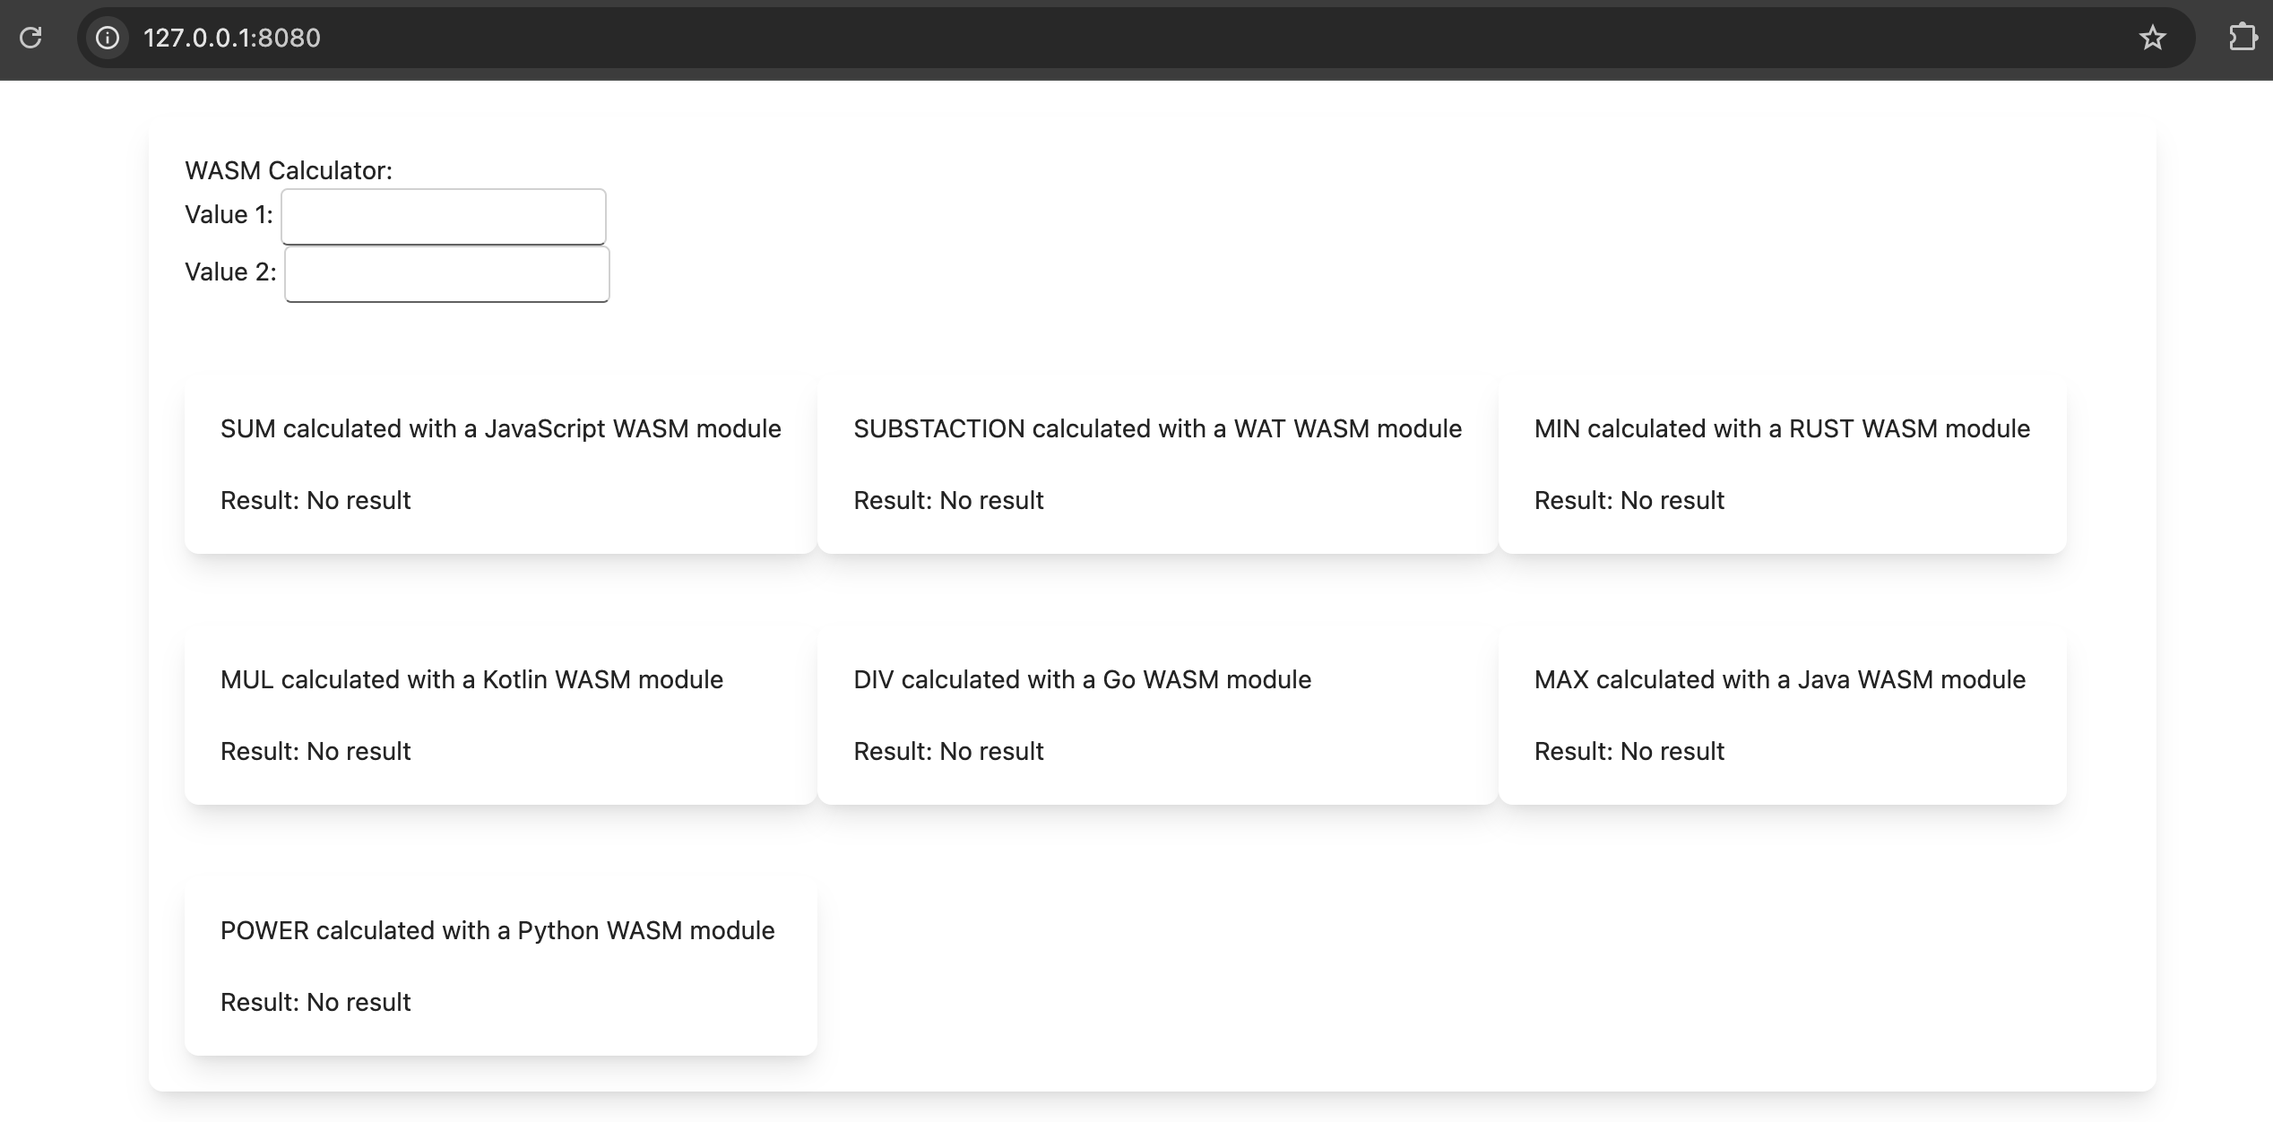
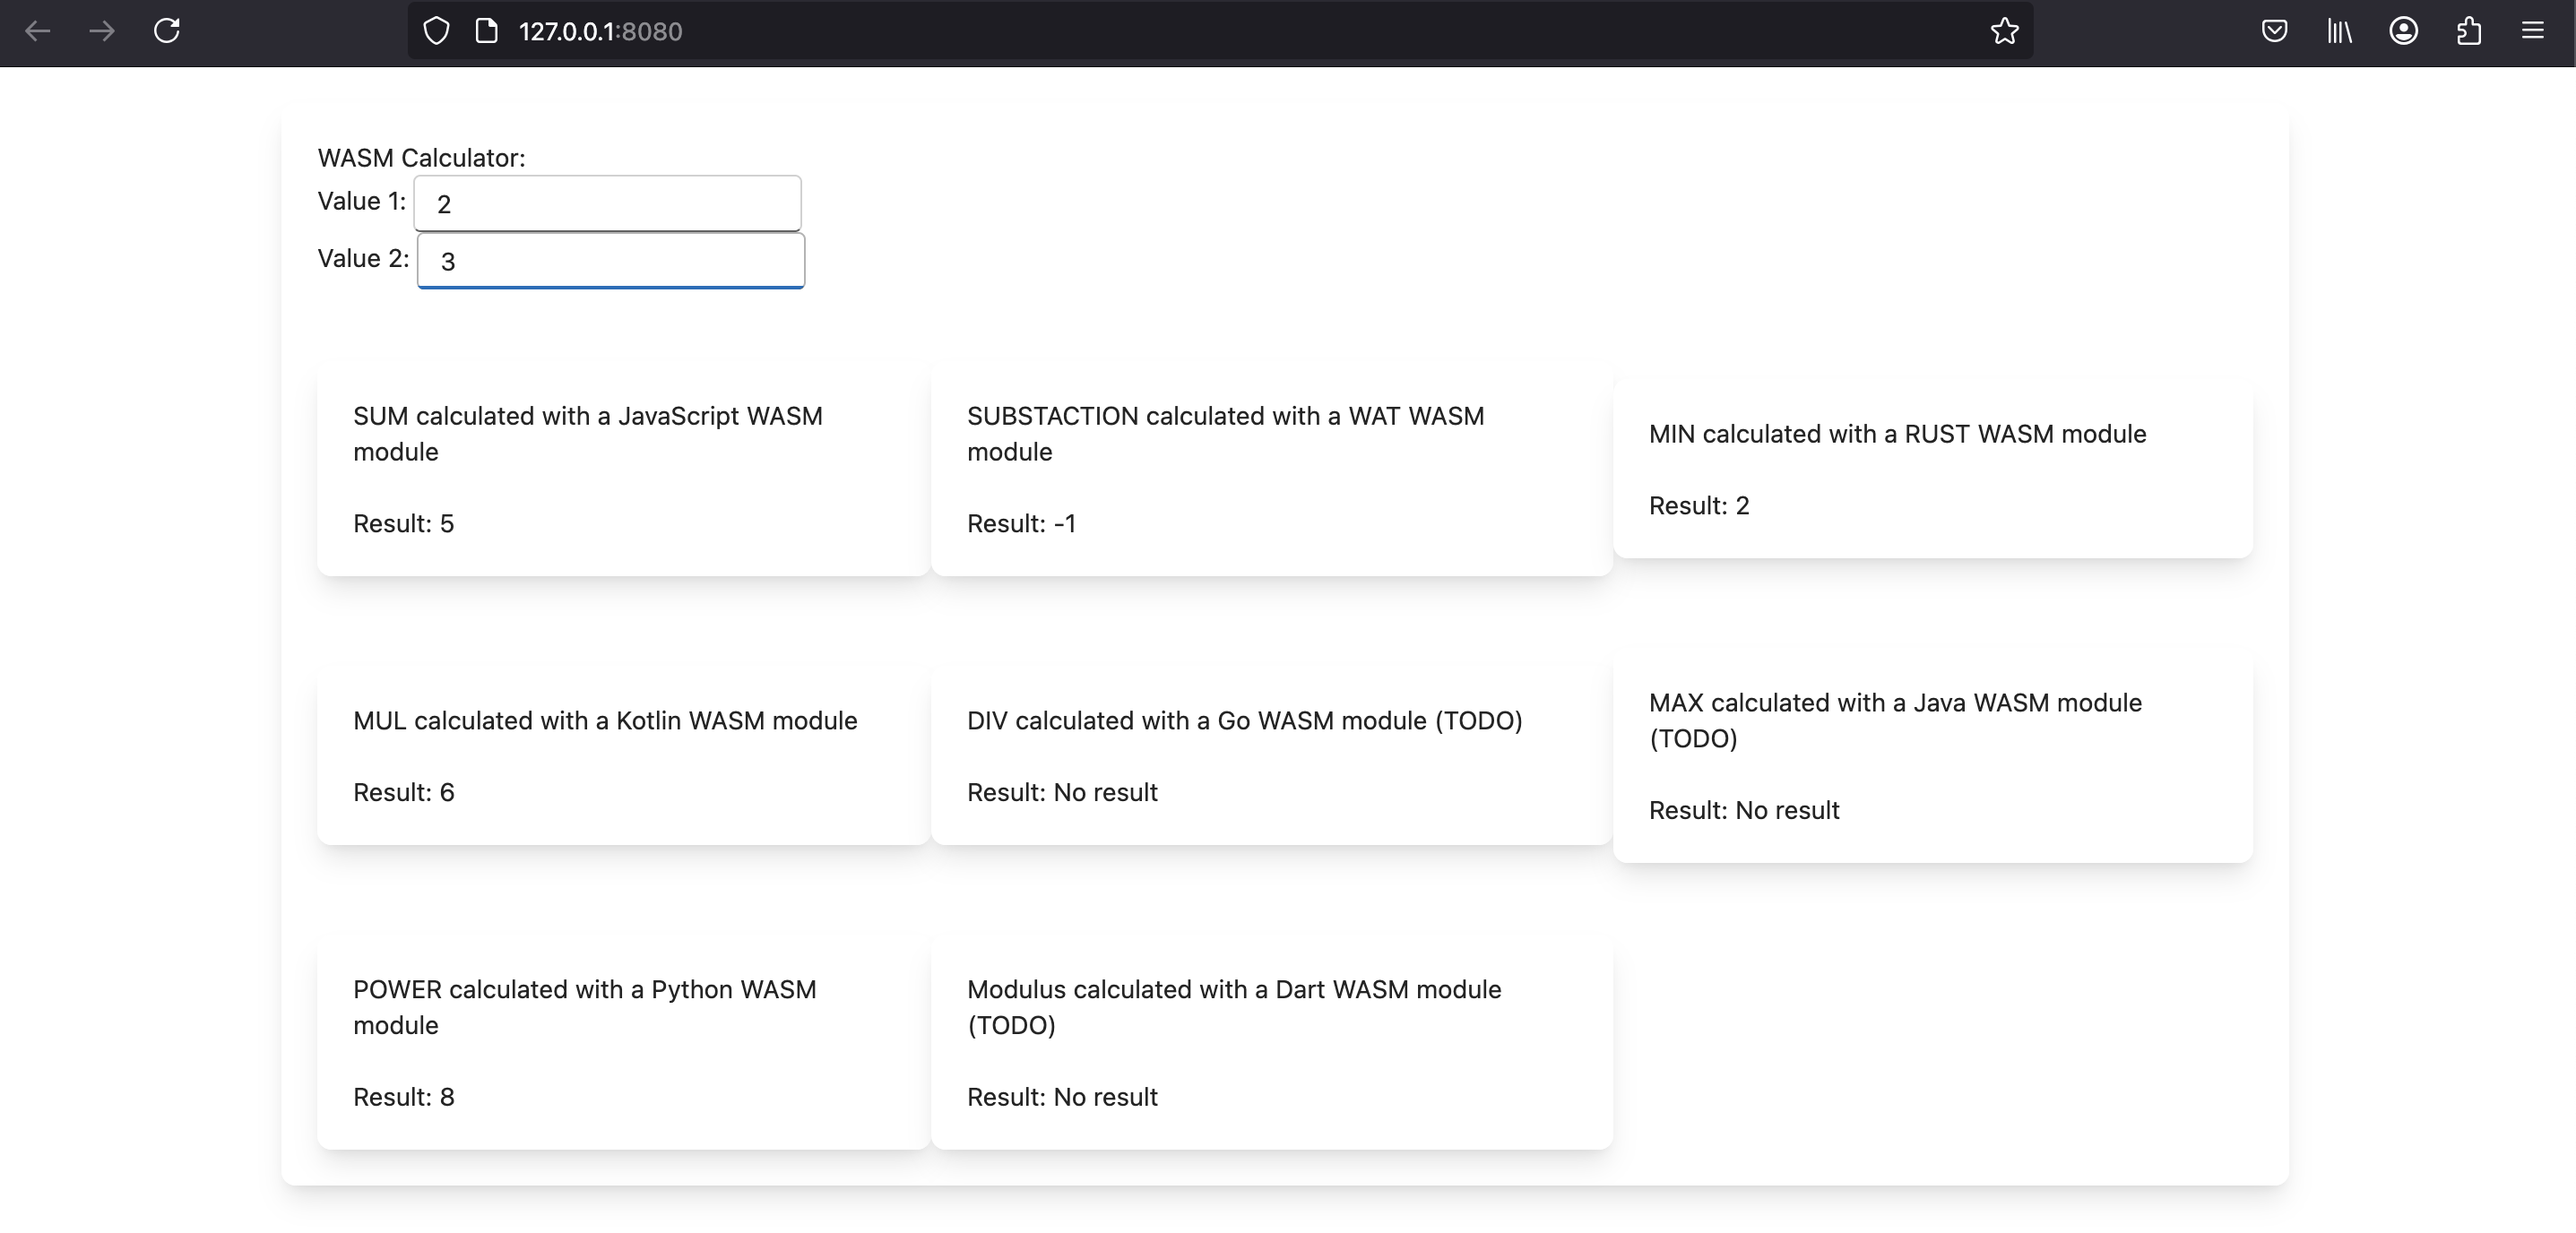
Include MOD Module

diff --git a/wasm-modulus/lib/modulus.dart b/wasm-modulus/lib/modulus.dart
@@ -1,0 +1,12 @@
+// lib/modulus.dart
+
+int modulus(int a, int b) {
+  if (b == 0) {
+    return 0; // Handle division by zero safely in WASM context
+  }
+  return a % b;
+}
+
+void main() {
+  // Required empty main function
+}

diff --git a/frontend/src/modules/modulus_view.rs b/frontend/src/modules/modulus_view.rs
@@ -3,28 +3,28 @@ use leptos::task::spawn_local;
 use log::{error, info};
 use wasm_bindgen::{JsCast, JsValue};
 use wasm_bindgen::prelude::wasm_bindgen;
-const WASM_BYTES: &[u8] = include_bytes!("../../../modules/max.wasm");
+const WASM_BYTES: &[u8] = include_bytes!("../../../modules/mod.wasm");
 
 #[wasm_bindgen]
-pub struct WasmMaxModule {
+pub struct WasmModulusModule {
     instance: js_sys::WebAssembly::Instance,
 }
 
 #[wasm_bindgen]
-impl WasmMaxModule {
+impl WasmModulusModule {
     #[wasm_bindgen(constructor)]
-    pub fn new() -> leptos::error::Result<WasmMaxModule, JsValue> {
+    pub fn new() -> leptos::error::Result<WasmModulusModule, JsValue> {
         // Create module from bytes
-        info!("WASM [max] construct...");
+        info!("WASM [Modulus] construct...");
         let wasm_module = js_sys::WebAssembly::Module::new(&js_sys::Uint8Array::from(WASM_BYTES))?;
         let imports = js_sys::Object::new();
         let instance = js_sys::WebAssembly::Instance::new(&wasm_module, &imports)?;
-        info!("WASM [max] instance created");
-        Ok(WasmMaxModule { instance })
+        info!("WASM [Modulus] instance created");
+        Ok(WasmModulusModule { instance })
     }
 
-    pub fn max(&self, a: i32, b: i32) -> leptos::error::Result<i32, JsValue> {
-        info!("CALL [max] for {} {}", a, b);
+    pub fn Modulus(&self, a: i32, b: i32) -> leptos::error::Result<i32, JsValue> {
+        info!("CALL [Modulus] for {} {}", a, b);
         let exports = self.instance.exports();
 
         // Debug: Log all available exports
@@ -36,26 +36,26 @@ impl WasmMaxModule {
             info!("  Export {}: {:?}", i, key);
         }
 
-        // Try to get the max function
-        let max_fn = match js_sys::Reflect::get(&exports, &JsValue::from_str("max")) {
+        // Try to get the Modulus function Look WAT
+        let Modulus_fn = match js_sys::Reflect::get(&exports, &JsValue::from_str("c")) {
             Ok(func) => {
-                info!("Found max function: {:?}", func);
+                info!("Found Modulus function: {:?}", func);
                 match func.dyn_into::<js_sys::Function>() {
                     Ok(f) => f,
                     Err(e) => {
                         error!("Failed to convert to Function: {:?}", e);
-                        return Err(JsValue::from_str("max is not a function"));
+                        return Err(JsValue::from_str("Modulus is not a function"));
                     }
                 }
             },
             Err(e) => {
-                error!("Failed to get max function: {:?}", e);
+                error!("Failed to get Modulus function: {:?}", e);
                 return Err(e);
             }
         };
 
         // Call the function with better error handling
-        match max_fn.call2(&JsValue::NULL, &JsValue::from(a), &JsValue::from(b)) {
+        match Modulus_fn.call2(&JsValue::NULL, &JsValue::from(a), &JsValue::from(b)) {
             Ok(result) => {
                 match result.as_f64() {
                     Some(num) => {
@@ -68,7 +68,7 @@ impl WasmMaxModule {
                 }
             },
             Err(e) => {
-                error!("Error calling max function: {:?}", e);
+                error!("Error calling Modulus function: {:?}", e);
                 Err(e)
             }
         }
@@ -76,7 +76,7 @@ impl WasmMaxModule {
 }
 
 #[component]
-pub fn MaxView(v1: RwSignal<String>, v2: RwSignal<String>) -> impl IntoView {
+pub fn ModulusView(v1: RwSignal<String>, v2: RwSignal<String>) -> impl IntoView {
 
     let result = RwSignal::new(None::<i32>);
     let error = RwSignal::new(None::<String>);
@@ -92,9 +92,9 @@ pub fn MaxView(v1: RwSignal<String>, v2: RwSignal<String>) -> impl IntoView {
 
                 // Use spawn_local for the async WASM operation
                 spawn_local(async move {
-                    match WasmMaxModule::new() {
+                    match WasmModulusModule::new() {
                         Ok(wasm_module) => {
-                            match wasm_module.max(n1, n2) {
+                            match wasm_module.Modulus(n1, n2) {
                                 Ok(sum) => {
                                     result.set(Some(sum));
                                     error.set(None);
@@ -124,7 +124,7 @@ pub fn MaxView(v1: RwSignal<String>, v2: RwSignal<String>) -> impl IntoView {
 
     view! {
         <div class="max-w-md mx-auto mt-10 mt-3 p-5 bg-white rounded-lg shadow-lg">
-            <p class="mb-5"> MAX calculated with a Java WASM module (TODO)</p>
+            <p class="mb-5"> Modulus calculated with a Dart WASM module (TODO)</p>
             <p>"Result: " {move || result.get().map(|n| n.to_string()).unwrap_or_else(|| "No result".to_string())}</p>
         </div>
     }

diff --git a/frontend/src/modules/div_view.rs b/frontend/src/modules/div_view.rs
@@ -124,7 +124,7 @@ pub fn DivView(v1: RwSignal<String>, v2: RwSignal<String>) -> impl IntoView {
 
     view! {
         <div class="max-w-md mx-auto mt-10 mt-3 p-5 bg-white rounded-lg shadow-lg">
-            <p class="mb-5"> DIV calculated with a Go WASM module </p>
+            <p class="mb-5"> DIV calculated with a Go WASM module (TODO)</p>
             <p>"Result: " {move || result.get().map(|n| n.to_string()).unwrap_or_else(|| "No result".to_string())}</p>
         </div>
     }

diff --git a/frontend/src/modules/mod.rs b/frontend/src/modules/mod.rs
@@ -5,6 +5,7 @@ pub mod mul_view;
 mod div_view;
 mod max_view;
 mod power_view;
+mod modulus_view;
 
 pub use crate::modules::add_view::AddView;
 pub use crate::modules::sub_view::SubView;
@@ -13,3 +14,4 @@ pub use crate::modules::mul_view::MulView;
 pub use crate::modules::div_view::DivView;
 pub use crate::modules::max_view::MaxView;
 pub use crate::modules::power_view::PowerView;
+pub use crate::modules::modulus_view::ModulusView;

diff --git a/frontend/src/main.rs b/frontend/src/main.rs
@@ -28,7 +28,7 @@ pub fn WasmCalculator() -> impl IntoView {
             </tr>
             <tr>
                 <td><PowerView v1=v1 v2=v2></PowerView></td>
-                <td></td>
+                <td><ModulusView v1=v1 v2=v2></ModulusView></td>
                 <td></td>
             </tr>
         </table>

diff --git a/readme.md b/readme.md
@@ -10,12 +10,12 @@ To not install all the languages, the build is done with Docker Images and build
 
 *Build WASM modules* : docker-compose up --build
 
-| *module*   | *language* |    | *module* | *language* |
-|------------|------------|----|----------|------------|
-| wasm-add   | Typescript |    | wasm-mul | Kotlin     | 
-| wasm-sub   | WAT        |    | wasm-div | Go         | 
-| wasm-min   | Rust       |    | wasm-add | Java       |
-| wasm-power | Python     |    |          |            |
+| *module*   | *language* |    | *module*  | *language* |    | *module*   | *language* |
+|------------|------------|----|-----------|------------|----|------------|------------|
+| wasm-add   | Typescript |    | wasm-mul  | Kotlin     |    | wasm-power | Python     | 
+| wasm-sub   | WAT        |    | wasm-div  | Go         |    | wasm-mod   | Dart       |
+| wasm-min   | Rust       |    | wasm-max  | Java       |    |            |            |
+
 
 executing the Leptos application, you need have installed Rust + Trunk
 
